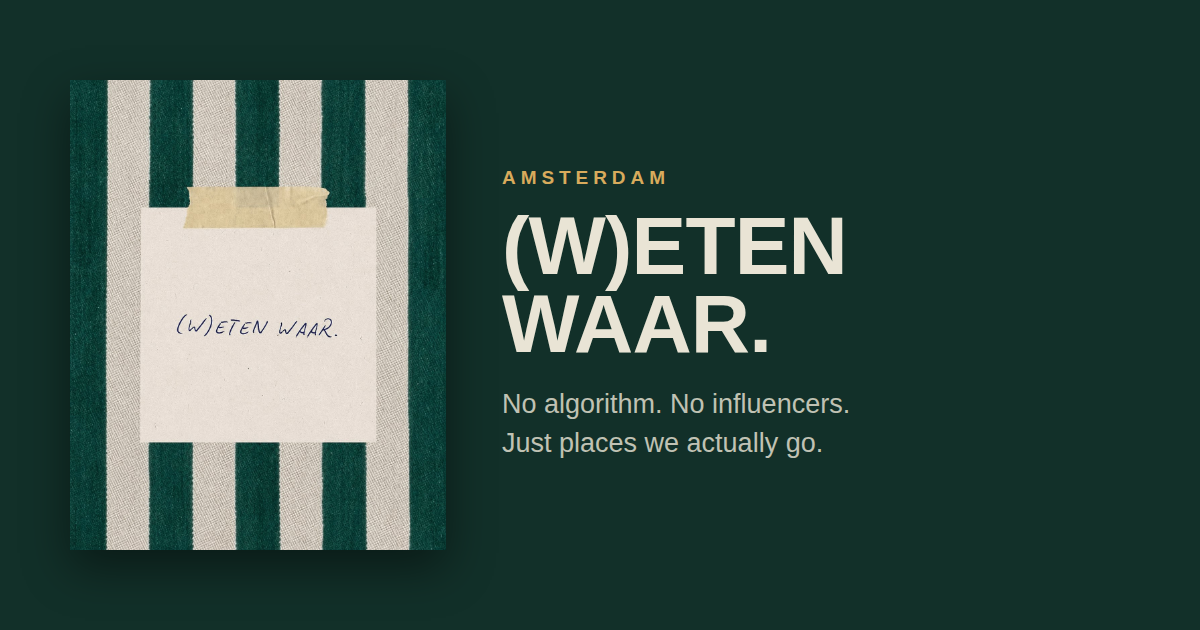
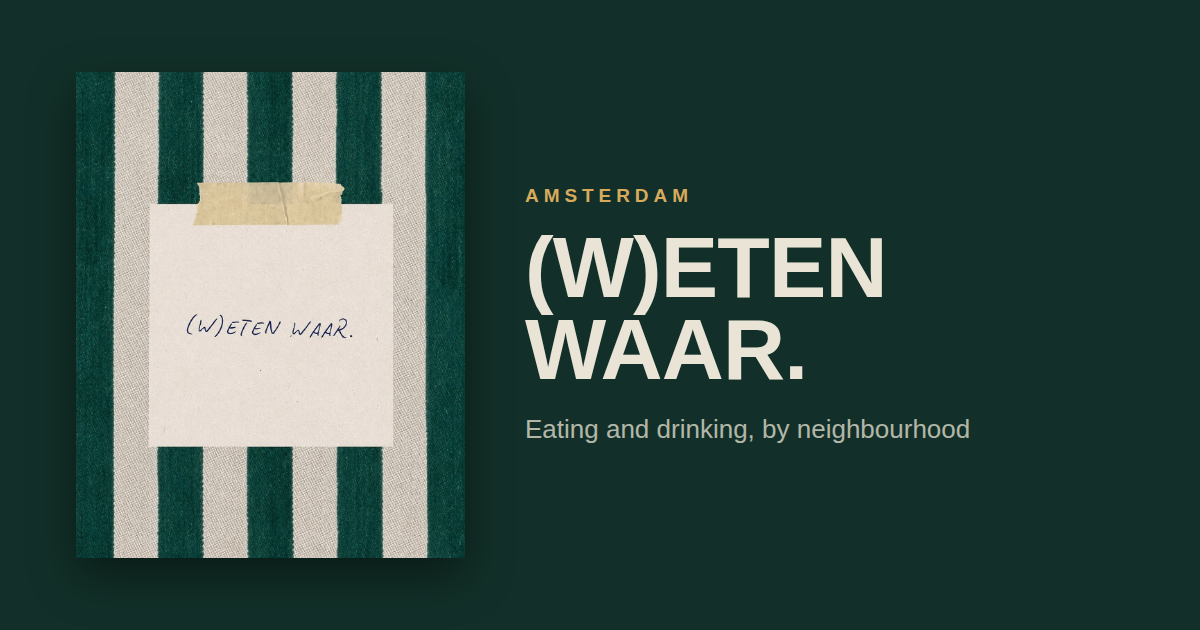
Drop the slogans and decorative copy
- De hero-slogan 'Geen algoritme. Geen influencers.' is weg, evenals de
  Engelse tegenhanger
- 'speel af & kijk lekker rond' en de lange scroll-hint zijn weg; er staat
  alleen nog 'scroll' bij het pijltje
- De inleiding bij de kaart is geschrapt
- De statistiek '0 influencers' maakte dezelfde grap als de geschrapte slogan
  en is eruit; er blijven twee cijfers over
- Ondertitels van Swipe & Dine en de duo-pagina korter en nuchterder
- Bijschrift bij de sfeerfoto weg
- meta description en og:description opnieuw geschreven zonder de slogan
- Deelafbeeldingen opnieuw gerenderd; daar stond de slogan ook nog op

De handgeschreven regel onder de statregel blijft staan: dat is de enige
plek die nog zegt dat we er zelf zijn geweest, en die stond er op verzoek.

Changed region(s): [[0.0617, 0.0905, 0.8325, 0.9048]]

diff --git a/index.html b/index.html
@@ -5,13 +5,13 @@
 <meta name="viewport" content="width=device-width, initial-scale=1.0">
 <title>(W)ETEN WAAR. &mdash; eten &amp; drinken in Amsterdam</title>
 <meta property="og:title" content="(W)ETEN WAAR.">
-<meta property="og:description" content="Alle plekken in Amsterdam waar we zelf hebben gegeten en gedronken.">
+<meta property="og:description" content="Eten en drinken in Amsterdam. Onze eigen lijst, per wijk.">
 <meta property="og:image" content="https://www.wetenwaar.nl/og-image.png">
 <meta property="og:url" content="https://www.wetenwaar.nl/">
 <link rel="alternate" hreflang="nl" href="https://www.wetenwaar.nl/">
 <link rel="alternate" hreflang="en" href="https://www.wetenwaar.nl/en/">
 <link rel="alternate" hreflang="x-default" href="https://www.wetenwaar.nl/">
-<meta name="description" content="Alle plekken in Amsterdam waar we zelf hebben gegeten en gedronken. Geen algoritme, geen influencers.">
+<meta name="description" content="Eten en drinken in Amsterdam. Onze eigen lijst, per wijk.">
 <link rel="canonical" href="https://www.wetenwaar.nl/">
 <meta property="og:site_name" content="(W)ETEN WAAR.">
 <meta property="og:locale" content="nl_NL">
@@ -1362,13 +1362,8 @@ html.has-hero-image .hero .scroll-hint { position: static; margin-top: 1.6rem; }
     <span class="note-tape" aria-hidden="true"></span>
     <h1><small>(W)</small>ETEN WAAR.</h1>
   </div>
-  <p class="sub">Geen algoritme. Geen influencers. Gewoon plekken waar wij &eacute;cht komen.</p>
   <span class="updated">Laatst bijgewerkt &mdash; augustus 2026</span>
   <div class="hero-spotify">
-    <div class="spotify-hint">
-      <span>speel af &amp; kijk lekker rond</span>
-      <svg width="28" height="32" viewBox="0 0 28 32" fill="none" stroke="var(--olive)" stroke-width="2" stroke-linecap="round"><path d="M14 2 C10 8, 6 14, 8 20 C10 26, 14 28, 14 30"/><path d="M8 25 L14 30 L18 24"/></svg>
-    </div>
     <iframe id="spotifyPlayer" src="" width="100%" height="80" frameBorder="0" allow="autoplay; clipboard-write; encrypted-media" loading="lazy"></iframe>
     <script>
     (function(){
@@ -1385,7 +1380,7 @@ html.has-hero-image .hero .scroll-hint { position: static; margin-top: 1.6rem; }
   </div>
   <a class="scroll-hint" href="#anecdotes" onclick="event.preventDefault();slowScroll(document.getElementById('anecdotes'))">
     <svg width="20" height="28" viewBox="0 0 20 28" fill="none" stroke="currentColor" stroke-width="1.5" stroke-linecap="round"><path d="M10 1 C8 6, 4 10, 6 16 C8 22, 10 24, 10 27"/><path d="M5 22 L10 27 L14 21"/></svg>
-    <span>scroll &mdash; en lees onderaan wat je niet wist</span>
+    <span>scroll</span>
   </a>
 </section>
 
@@ -1405,7 +1400,7 @@ html.has-hero-image .hero .scroll-hint { position: static; margin-top: 1.6rem; }
     <div class="swipe-banner-inner reveal">
       <div class="swipe-banner-new">Nieuw</div>
       <div class="swipe-banner-title">SWIPE &amp;<br><em>DINE</em></div>
-      <p class="swipe-banner-sub">Samen kiezen waar je eet. Ieder swipet, bij een match weet je het meteen.</p>
+      <p class="swipe-banner-sub">Ieder swipet. Bij een match weet je het meteen.</p>
       <a class="swipe-banner-btn" href="duo.html">Start sessie &rarr;</a>
     </div>
   </div>
@@ -1415,13 +1410,11 @@ html.has-hero-image .hero .scroll-hint { position: static; margin-top: 1.6rem; }
   <div class="map-section" id="kaart">
     <div class="section-head reveal">
       <h2>Waar het allemaal ligt</h2>
-      <p>Elke stip is een plek waar we zelf zijn geweest.</p>
     </div>
     <div id="map" class="reveal-zoom"></div>
     <div class="stats reveal" id="stats">
       <div class="stat"><div class="num" data-count="0">0</div><div class="lbl">plekken</div></div>
       <div class="stat"><div class="num" data-count="0">0</div><div class="lbl">buurten</div></div>
-      <div class="stat"><div class="num" data-count="0">0</div><div class="lbl">influencers</div></div>
     </div>
     <p class="stats-note reveal"><span class="handwritten">&mdash; en ja, we zijn er allemaal zelf geweest</span></p>
   </div>
@@ -1443,8 +1436,7 @@ html.has-hero-image .hero .scroll-hint { position: static; margin-top: 1.6rem; }
       <img src="today.jpg" alt="Zomer aan de Italiaanse kust"
            onerror="this.closest('.photo-band').remove()">
     </div>
-    <figcaption>Waar we het allemaal voor doen.</figcaption>
-  </figure>
+      </figure>
 
   <!-- GEEN IDEE SPINNER -->
   <div class="spinner-wrap" id="geen-idee">

diff --git a/en/index.html b/en/index.html
@@ -5,13 +5,13 @@
 <meta name="viewport" content="width=device-width, initial-scale=1.0">
 <title>(W)ETEN WAAR. — Amsterdam food guide</title>
 <meta property="og:title" content="(W)ETEN WAAR.">
-<meta property="og:description" content="Every place in Amsterdam we have eaten and drunk at ourselves.">
+<meta property="og:description" content="Eating and drinking in Amsterdam. Our own list, by neighbourhood.">
 <meta property="og:image" content="https://www.wetenwaar.nl/og-image-en.png">
 <meta property="og:url" content="https://www.wetenwaar.nl/en/">
 <link rel="alternate" hreflang="nl" href="https://www.wetenwaar.nl/">
 <link rel="alternate" hreflang="en" href="https://www.wetenwaar.nl/en/">
 <link rel="alternate" hreflang="x-default" href="https://www.wetenwaar.nl/">
-<meta name="description" content="Every place in Amsterdam we have eaten and drunk at ourselves. No algorithm, no influencers.">
+<meta name="description" content="Eating and drinking in Amsterdam. Our own list, by neighbourhood.">
 <link rel="canonical" href="https://www.wetenwaar.nl/en/">
 <meta property="og:site_name" content="(W)ETEN WAAR.">
 <meta property="og:locale" content="en_GB">
@@ -1362,13 +1362,8 @@ html.has-hero-image .hero .scroll-hint { position: static; margin-top: 1.6rem; }
     <span class="note-tape" aria-hidden="true"></span>
     <h1><small>(W)</small>ETEN WAAR.</h1>
   </div>
-  <p class="sub">No algorithm. No influencers. Just places we actually go.</p>
   <span class="updated">Last updated &mdash; August 2026</span>
   <div class="hero-spotify">
-    <div class="spotify-hint">
-      <span>press play &amp; have a look around</span>
-      <svg width="28" height="32" viewBox="0 0 28 32" fill="none" stroke="var(--olive)" stroke-width="2" stroke-linecap="round"><path d="M14 2 C10 8, 6 14, 8 20 C10 26, 14 28, 14 30"/><path d="M8 25 L14 30 L18 24"/></svg>
-    </div>
     <iframe id="spotifyPlayer" src="" width="100%" height="80" frameBorder="0" allow="autoplay; clipboard-write; encrypted-media" loading="lazy"></iframe>
     <script>
     (function(){
@@ -1385,7 +1380,7 @@ html.has-hero-image .hero .scroll-hint { position: static; margin-top: 1.6rem; }
   </div>
   <a class="scroll-hint" href="#anecdotes" onclick="event.preventDefault();slowScroll(document.getElementById('anecdotes'))">
     <svg width="20" height="28" viewBox="0 0 20 28" fill="none" stroke="currentColor" stroke-width="1.5" stroke-linecap="round"><path d="M10 1 C8 6, 4 10, 6 16 C8 22, 10 24, 10 27"/><path d="M5 22 L10 27 L14 21"/></svg>
-    <span>scroll &mdash; and find out what you didn&rsquo;t know</span>
+    <span>scroll</span>
   </a>
 </section>
 
@@ -1405,7 +1400,7 @@ html.has-hero-image .hero .scroll-hint { position: static; margin-top: 1.6rem; }
     <div class="swipe-banner-inner reveal">
       <div class="swipe-banner-new">New</div>
       <div class="swipe-banner-title">SWIPE &amp;<br><em>DINE</em></div>
-      <p class="swipe-banner-sub">Decide together where to eat. You both swipe, and a match settles it.</p>
+      <p class="swipe-banner-sub">You both swipe. A match settles it.</p>
       <a class="swipe-banner-btn" href="duo.html">Start a session &rarr;</a>
     </div>
   </div>
@@ -1415,13 +1410,11 @@ html.has-hero-image .hero .scroll-hint { position: static; margin-top: 1.6rem; }
   <div class="map-section" id="kaart">
     <div class="section-head reveal">
       <h2>Where to find them</h2>
-      <p>Every dot is a place we have been ourselves.</p>
     </div>
     <div id="map" class="reveal-zoom"></div>
     <div class="stats reveal" id="stats">
       <div class="stat"><div class="num" data-count="0">0</div><div class="lbl">places</div></div>
       <div class="stat"><div class="num" data-count="0">0</div><div class="lbl">neighbourhoods</div></div>
-      <div class="stat"><div class="num" data-count="0">0</div><div class="lbl">influencers</div></div>
     </div>
     <p class="stats-note reveal"><span class="handwritten">&mdash; and yes, we have been to every single one</span></p>
   </div>
@@ -1443,8 +1436,7 @@ html.has-hero-image .hero .scroll-hint { position: static; margin-top: 1.6rem; }
       <img src="../today.jpg" alt="Zomer aan de Italiaanse kust"
            onerror="this.closest('.photo-band').remove()">
     </div>
-    <figcaption>What it is all for.</figcaption>
-  </figure>
+      </figure>
 
   <!-- GEEN IDEE SPINNER -->
   <div class="spinner-wrap" id="geen-idee">

diff --git a/en/duo.html b/en/duo.html
@@ -5,10 +5,10 @@
 <meta name="viewport" content="width=device-width, initial-scale=1.0, user-scalable=no">
 <title>SWIPE & DINE — (W)ETEN WAAR.</title>
 <meta property="og:title" content="SWIPE & DINE — (W)ETEN WAAR.">
-<meta property="og:description" content="Decide together where to eat. You both swipe, and a match settles it.">
+<meta property="og:description" content="You both swipe. A match tells you where you are going.">
 <meta property="og:image" content="https://www.wetenwaar.nl/og-image-en.png">
 <meta property="og:url" content="https://www.wetenwaar.nl/en/duo.html">
-<meta name="description" content="Decide together where to eat. You both swipe, and a match settles it.">
+<meta name="description" content="You both swipe. A match tells you where you are going.">
 <link rel="canonical" href="https://www.wetenwaar.nl/en/duo.html">
 <meta property="og:site_name" content="(W)ETEN WAAR.">
 <meta property="og:locale" content="en_GB">
@@ -668,7 +668,7 @@ body {
   <!-- SCREEN: Landing -->
   <div id="screen-landing" class="screen active">
     <div class="landing-title">SWIPE<br>&amp; DINE</div>
-    <p class="landing-subtitle">Swipe together through the best places in Amsterdam. A match settles date night.</p>
+    <p class="landing-subtitle">You both swipe. A match tells you where you are going.</p>
     <div class="btn-group">
       <button class="btn btn-primary" onclick="showScreen('create')">START SESSION</button>
       <button class="btn btn-secondary" onclick="showScreen('join')">JOIN SESSION</button>

diff --git a/duo.html b/duo.html
@@ -5,10 +5,10 @@
 <meta name="viewport" content="width=device-width, initial-scale=1.0, user-scalable=no">
 <title>SWIPE & DINE — (W)ETEN WAAR.</title>
 <meta property="og:title" content="SWIPE & DINE — (W)ETEN WAAR.">
-<meta property="og:description" content="Samen kiezen waar je eet. Ieder swipet, bij een match weet je het meteen.">
+<meta property="og:description" content="Ieder swipet. Bij een match weet je waar je heen gaat.">
 <meta property="og:image" content="https://www.wetenwaar.nl/og-image.png">
 <meta property="og:url" content="https://www.wetenwaar.nl/duo.html">
-<meta name="description" content="Samen kiezen waar je eet. Ieder swipet, bij een match weet je het meteen.">
+<meta name="description" content="Ieder swipet. Bij een match weet je waar je heen gaat.">
 <link rel="canonical" href="https://www.wetenwaar.nl/duo.html">
 <meta property="og:site_name" content="(W)ETEN WAAR.">
 <meta property="og:locale" content="nl_NL">
@@ -668,7 +668,7 @@ body {
   <!-- SCREEN: Landing -->
   <div id="screen-landing" class="screen active">
     <div class="landing-title">SWIPE<br>&amp; DINE</div>
-    <p class="landing-subtitle">Swipe samen door de beste plekken van Amsterdam. Match = date night besloten.</p>
+    <p class="landing-subtitle">Ieder swipet. Bij een match weet je waar je heen gaat.</p>
     <div class="btn-group">
       <button class="btn btn-primary" onclick="showScreen('create')">START SESSIE</button>
       <button class="btn btn-secondary" onclick="showScreen('join')">JOIN SESSIE</button>
